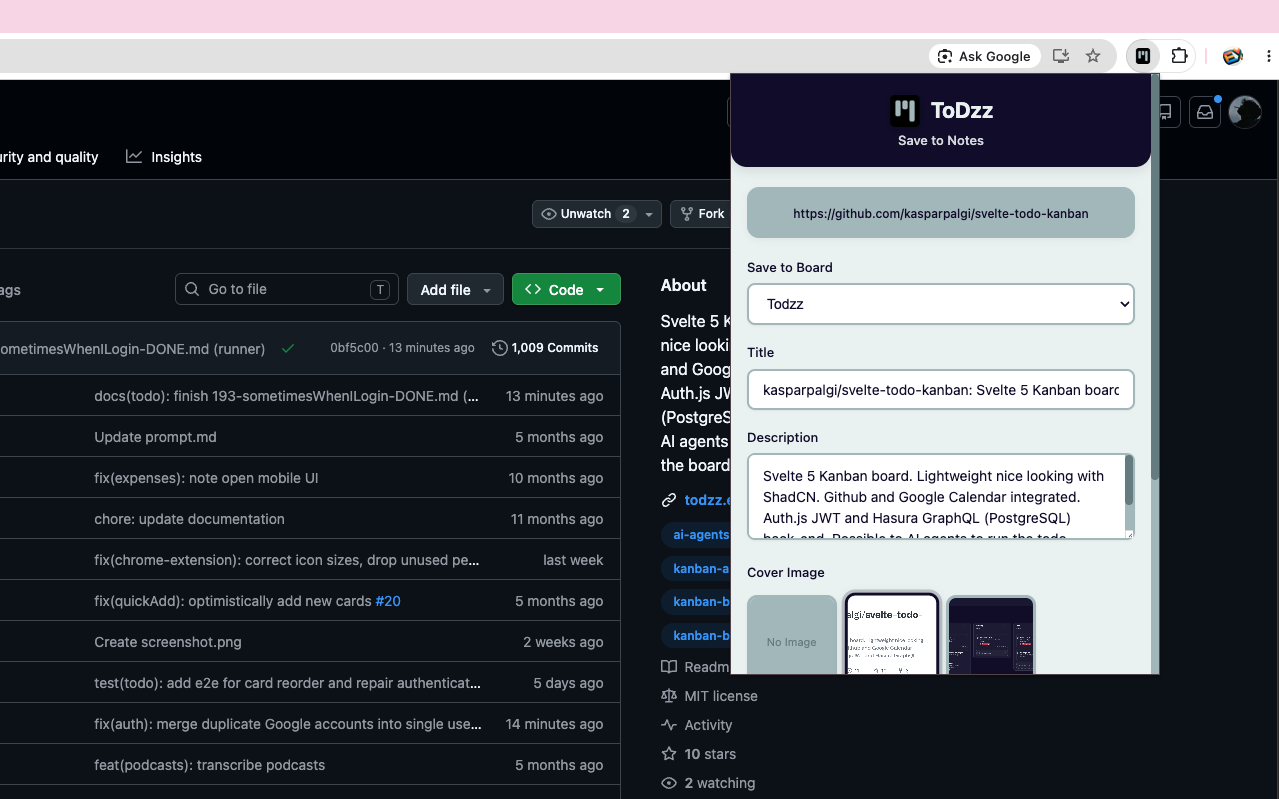
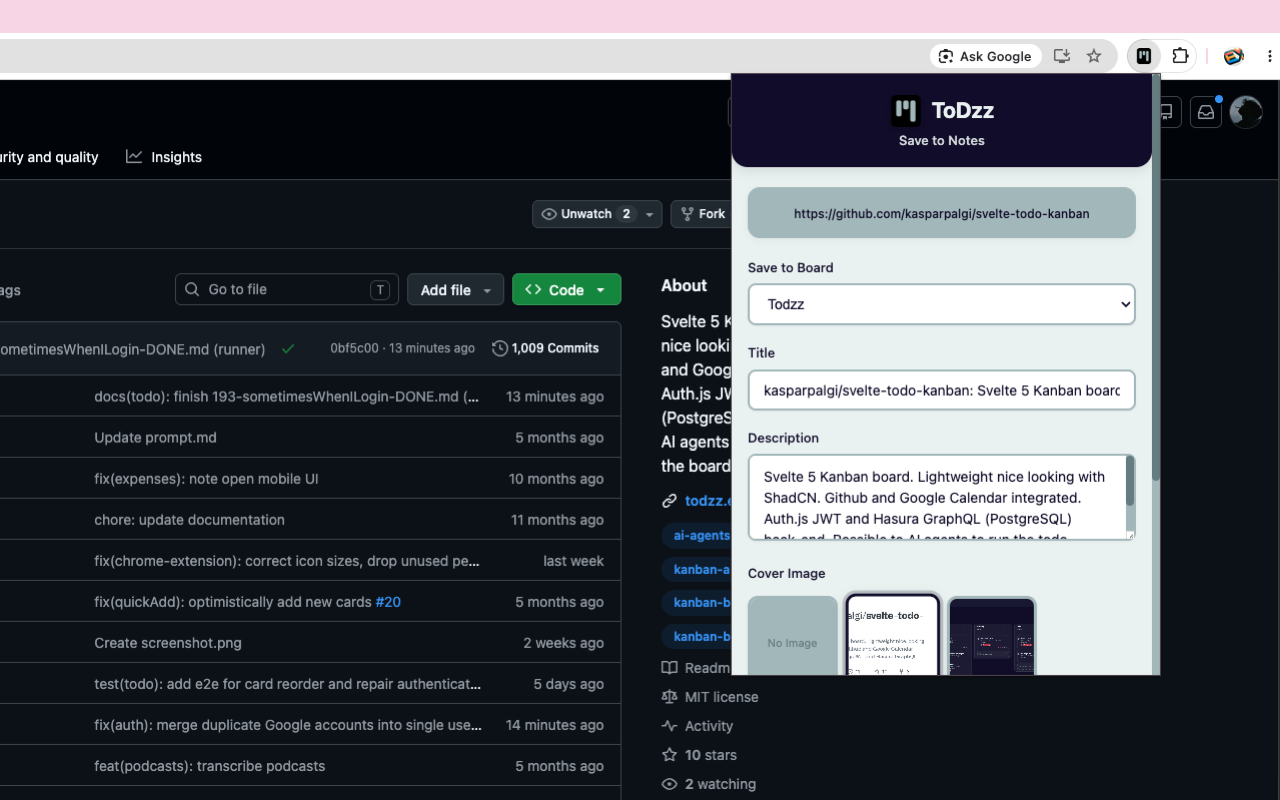
chore(chrome-store): resize listing images to exact store dimensions
Screenshot 1279x799 -> 1280x800 and promo tile 417x273 -> 440x280 so they meet
the Chrome Web Store requirements. Log task 196 progress.

Claude-Session: https://claude.ai/code/session_01KgbEPcDyzBWnubuEwmycuu

diff --git a/.claude/todo/196-chromeWebStore-TODO.md b/.claude/todo/196-chromeWebStore-TODO.md
@@ -17,3 +17,54 @@ See #167 task was done and there was left manually to do:
 4\. Package ZIP and submit via dashboard - ZIP it for me
 
 _From Kanban card `5c378638-317a-40b6-b862-058609fb6a78`, moved to the agent list._
+
+---
+
+## Plan (Opus 4.8) — 2026-09-17
+
+Actionable leftovers from the four items (1 = dev account, already done):
+
+- **Item 2 — image sizes.** `docs/chrome-1280x800.png` is 1279×799, `docs/chrome-440x280.png`
+  is 417×273. Chrome Web Store requires exact 1280×800 screenshots and 440×280 small promo
+  tile. Both being screenshots is fine (the store allows real screenshots as promo tiles as
+  long as they aren't misleading). → Resize both to the exact required dimensions with `sips`.
+- **Item 3 — popup opens slow.** Not actually the AI summary (that only runs on button
+  click). `init()` in `popup/popup.js` shows a full-window spinner and hides the form until
+  the network `loadBoards()` GraphQL call finishes. → Restructure `init()` to render the form
+  immediately after the (local, fast) auth check, then load boards + page data in the
+  background with inline "Loading boards…" placeholders. Form appears instantly; loaders show
+  while data streams in.
+- **Item 4 — package ZIP.** Zip the `chrome-extension/` folder (excluding docs/dev files) into
+  a store-ready upload.
+
+### Progress log
+
+**Done 2026-09-17:**
+
+- **Item 2 (images) — DONE.** Resized in place with `sips`:
+  - `docs/chrome-1280x800.png`: 1279×799 → **1280×800**
+  - `docs/chrome-440x280.png`: 417×273 → **440×280**
+  - Both are real screenshots; that is acceptable for the store (screenshots for the
+    screenshot slot; the small screenshot is fine as the 440×280 small promo tile).
+    Answer to the "is that ok?" question: yes — resized to exact required sizes.
+
+- **Item 3 (slow open) — DONE.** Root cause was **not** the AI summary (that only runs on
+  the "Generate Summary" click). `init()` blocked the whole popup on the network
+  `loadBoards()` GraphQL call, showing a full-window spinner until it returned. Refactored
+  `popup/popup.js`:
+  - After the fast local auth check, `showMainContent()` is called **immediately** so the
+    form appears at once.
+  - Boards and page data now load concurrently in the background via new `initBoards()` /
+    `initPageData()` helpers; the board `<select>` shows its existing "Loading boards…"
+    placeholder until data arrives, and page fields fill in when the content script responds.
+  - Added a graceful "Failed to load boards" state. `node --check` passes.
+
+- **Item 4 (ZIP) — DONE.** Built `chrome-extension/todzz-extension-v1.2.0.zip` (16 files,
+  runtime only — manifest, background.js, content/, icons/, lib/, popup/; docs/dev/.git
+  files excluded per the documented recipe). Manifest already ships production-only
+  host_permissions (no localhost), so no manifest edit was needed. `*.zip` is gitignored,
+  so the archive stays local for you to upload via the dashboard.
+
+**Left for you (manual, cannot be automated):** upload the ZIP + the two resized images to
+the Chrome Web Store Developer Dashboard and submit for review.
+
